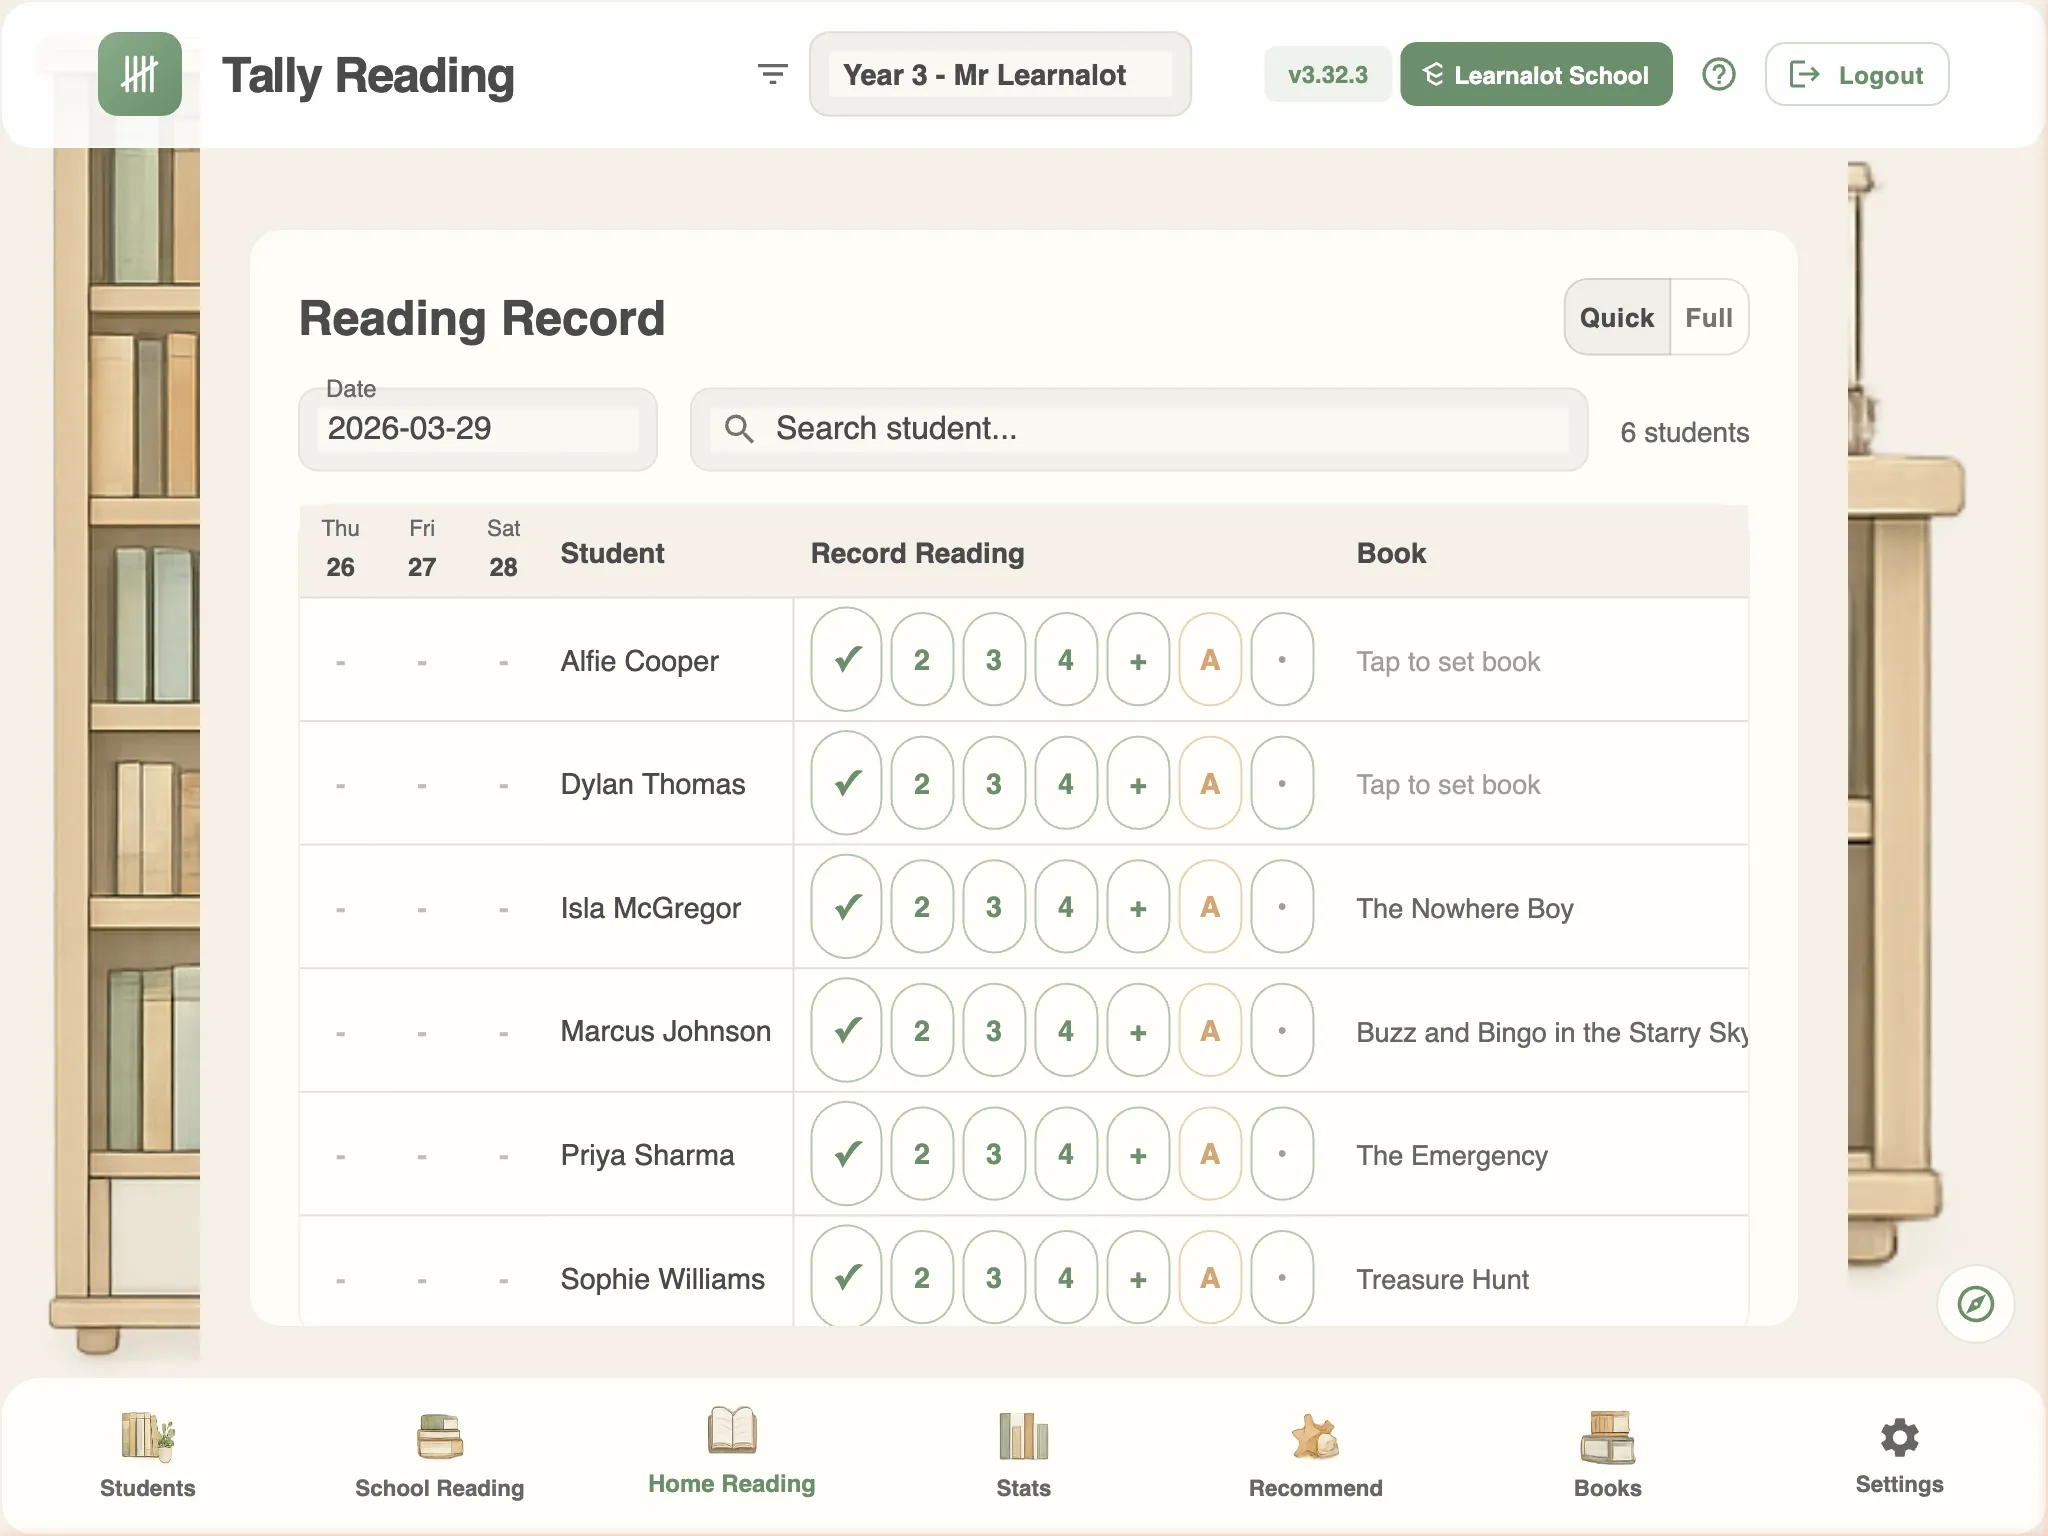
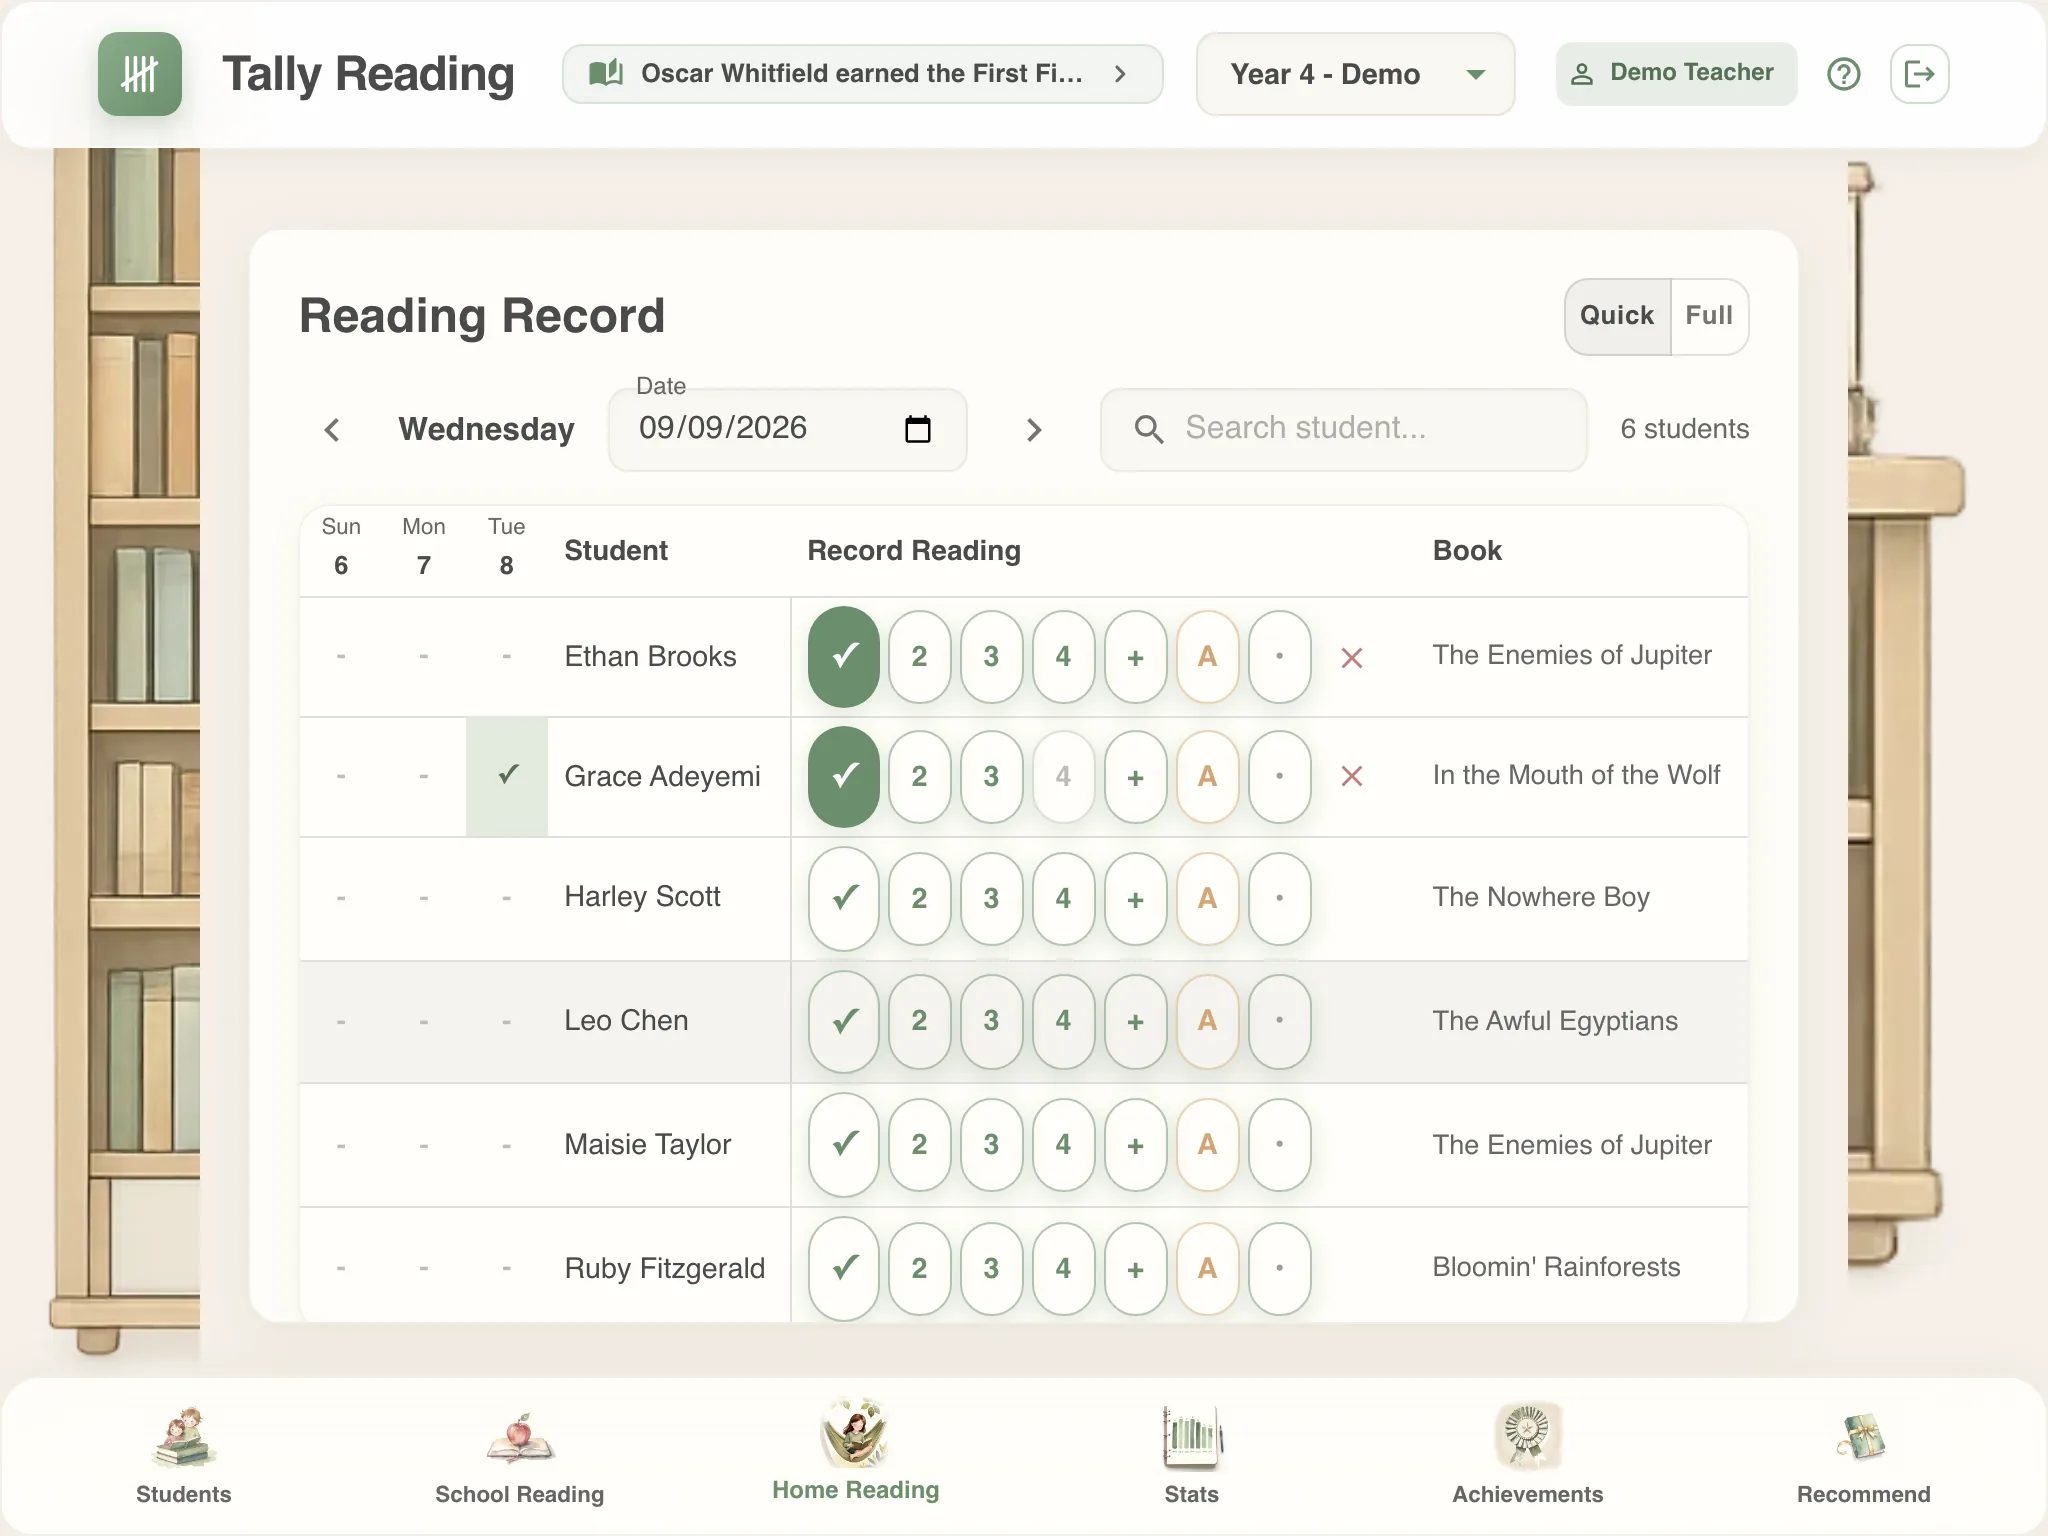
chore: refresh landing page screenshots from the live build (v3.133.1)
Six device mockups re-shot from the demo school at 1024x768 @2x (and the
parent portal at phone size) so the landing page shows the product a
visitor will meet in the demo, not a spring build with a version badge.

Claude-Session: https://claude.ai/code/session_01X8JFdRXcwfW2JPWUenyhEH

diff --git a/CHANGELOG.md b/CHANGELOG.md
@@ -1,5 +1,11 @@
 # Changelog
 
+## [3.133.1] - 2026-09-10
+
+### Changed
+
+- **Landing page screenshots are current.** Every device mockup now shows the app as it is today, taken from the live demo, rather than a build from the spring with the old header and a version badge.
+
 ## [3.133.0] - 2026-09-10
 
 ### Added
